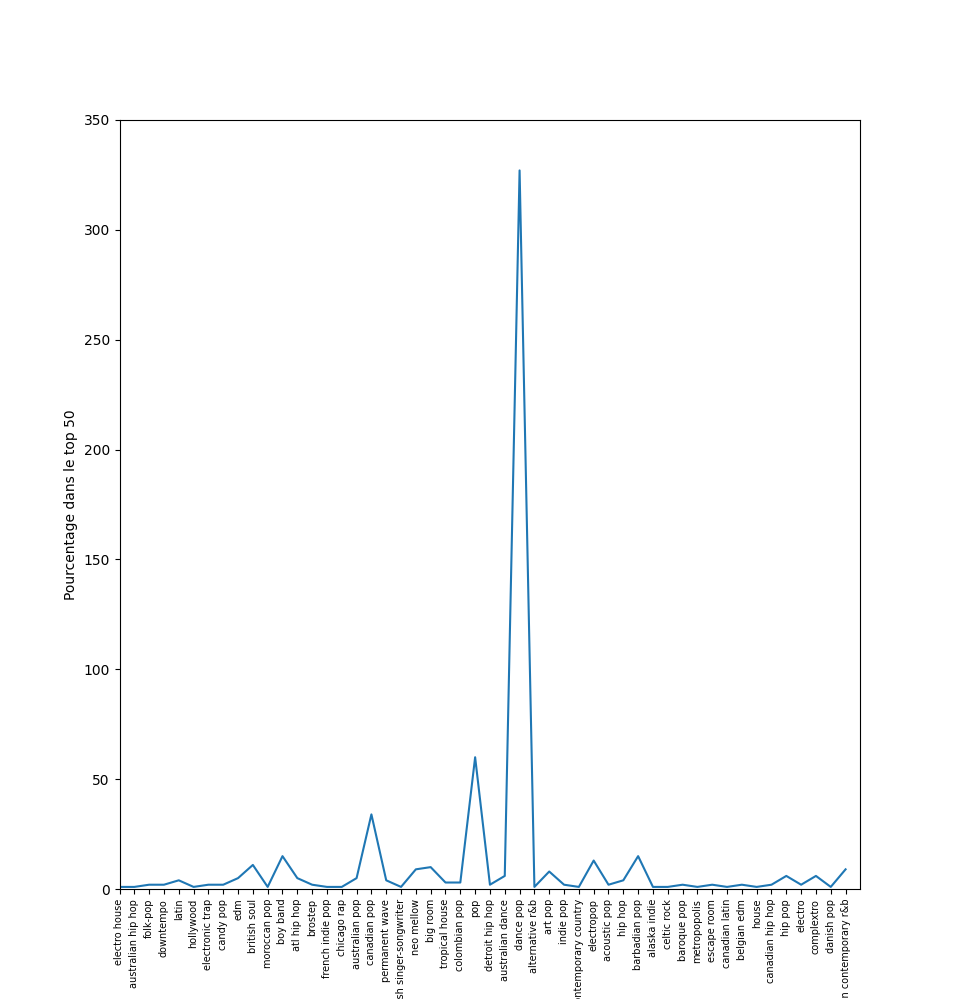
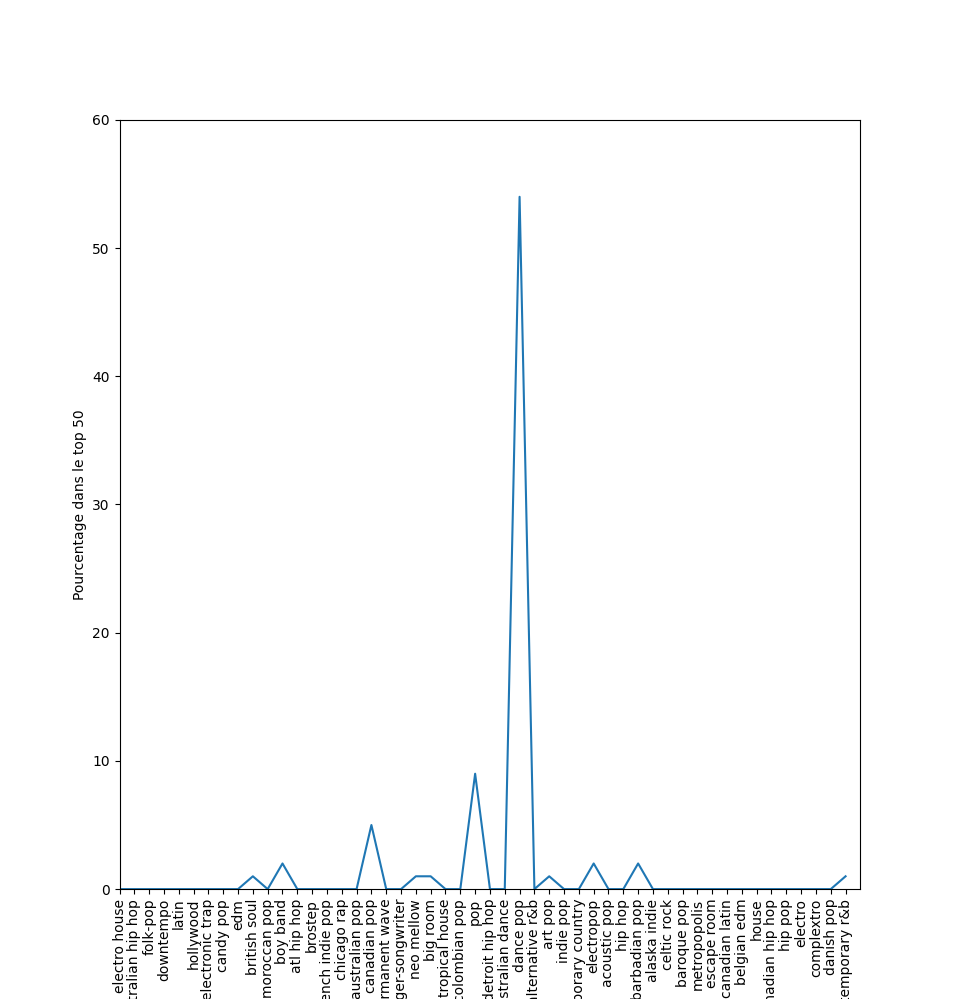
correction premiere requete et image

diff --git a/visualisation.py b/visualisation.py
@@ -8,7 +8,7 @@ co = None
 
 try:
     co =  psy.connect(host='berlin',
-                      database='dbafjv',
+                      database='dbviastolfi',
                       user=gp.getuser(),
                       password=gp.getpass('Password: '))
     
@@ -19,8 +19,12 @@ try:
                             GROUP BY genre;
                             ''', con=co)
 
-    fig=datafr.plot(y='pourcentage',kind='pie', legend=False)
+    fig=datafr.plot(y='pourcentage', x='genre', legend=False)
     fig.set_ylabel('Pourcentage dans le top 50')
+    fig.set_xticks(datafr.index)
+    fig.set_xticklabels(datafr['genre'], rotation=90)
+    fig.set_ylim(0,60)
+    fig.set_xlim(0,50)
     plt.show()
 
     # requête numéro 2 : (quels genre a le plus de dancabilité)
